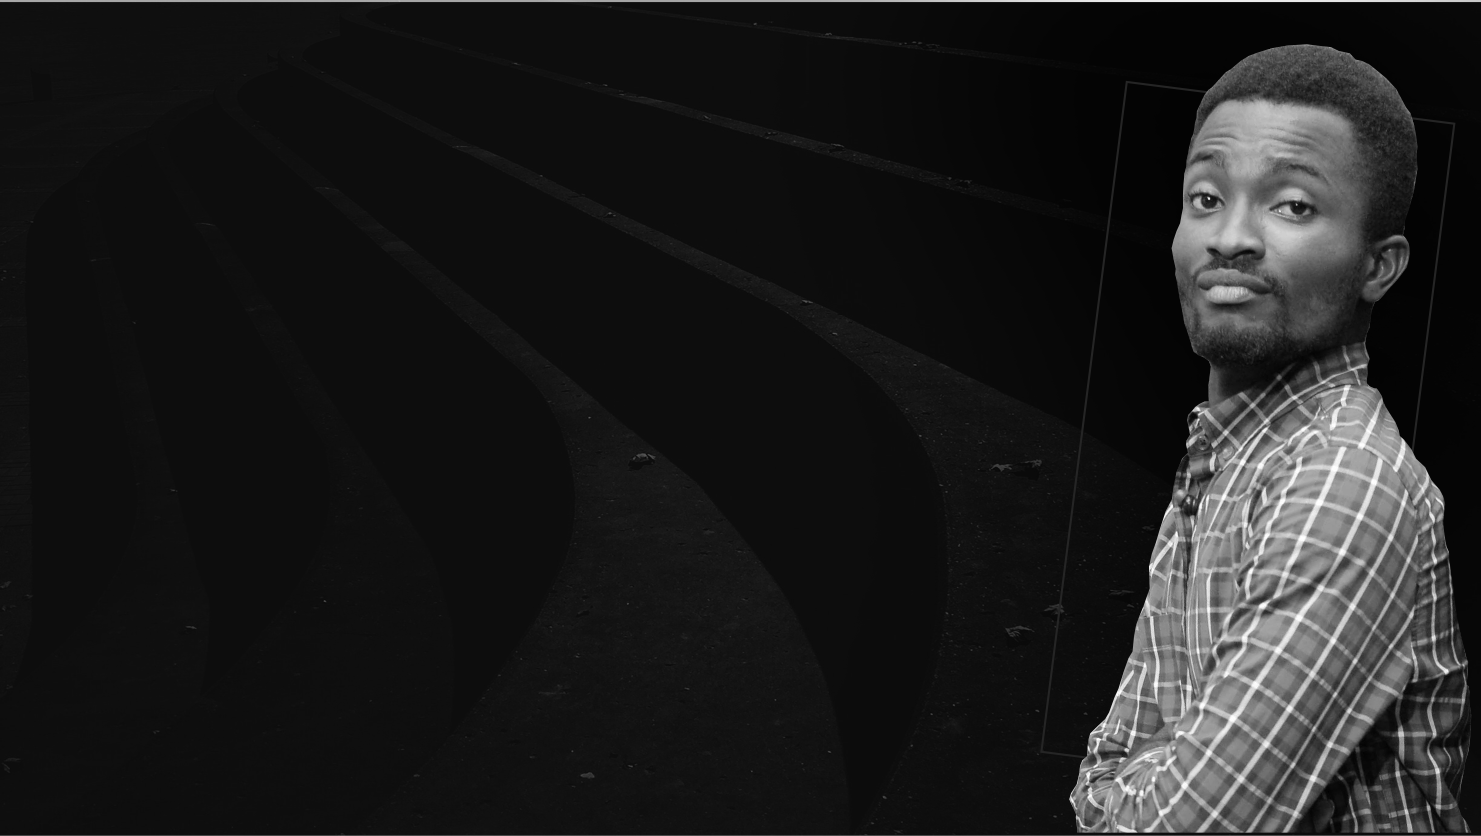
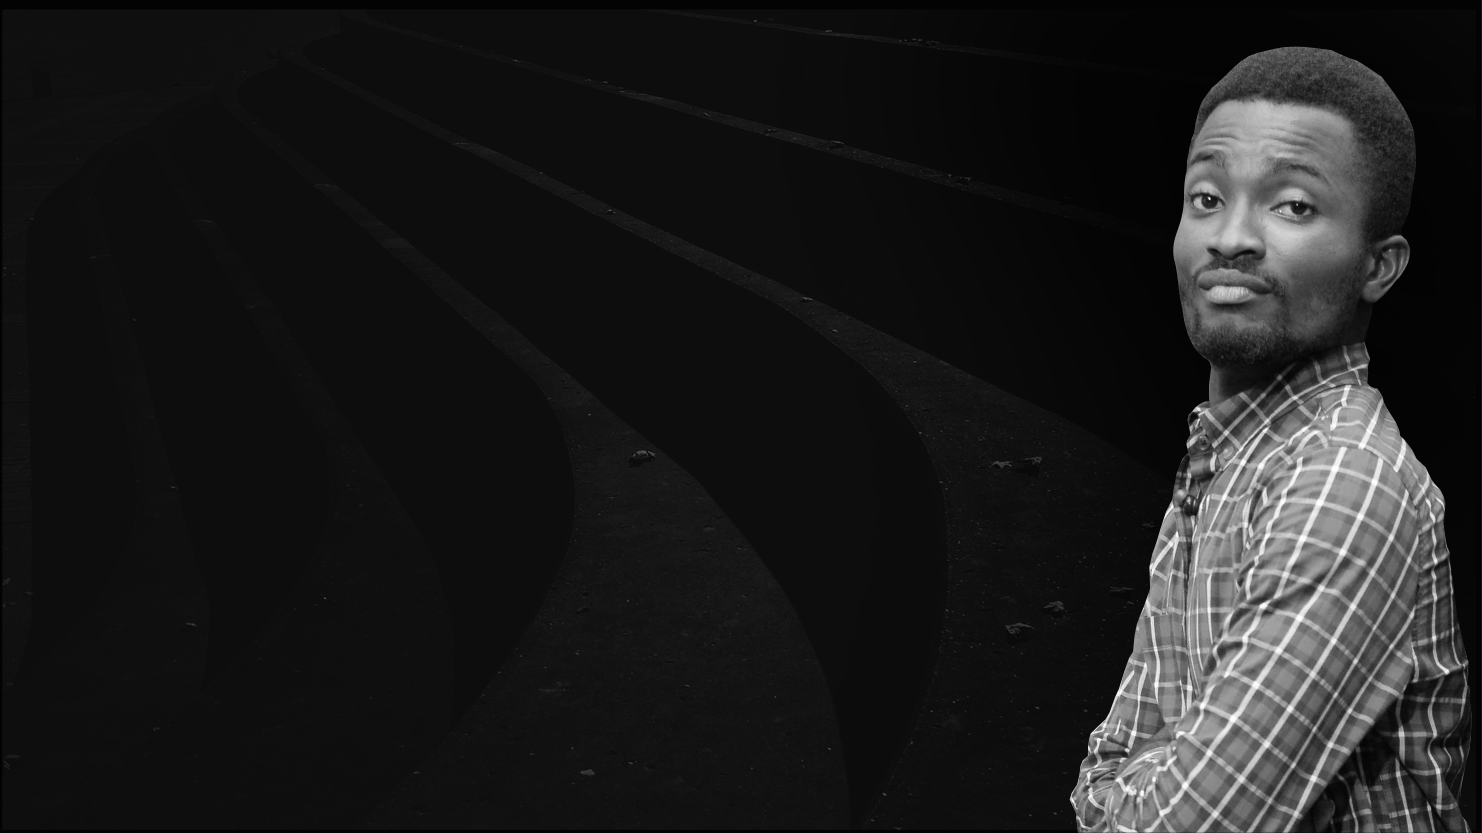
Finished with home page
--Added my image.
--Image hides when on sm screen.
--Changed accent colors to purple (my brand colors and white, black and purple)

diff --git a/assets/css/style.css b/assets/css/style.css
@@ -28,6 +28,12 @@ body::before {
   z-index: -1;
 }
 
+@media (max-width: 576px) {
+  body::before {
+    background: #040404;
+  }
+}
+  
 @media (min-width: 1024px) {
   body::before {
     background-attachment: fixed;
@@ -35,7 +41,7 @@ body::before {
 }
 
 a {
-  color: #18d26e;
+  color: #8062e6;
 }
 
 a:hover {
@@ -69,7 +75,7 @@ h6 {
   width: 80px;
   padding: 0;
   margin-bottom: 10px;
-  margin-top: 60px;
+/*  margin-top: 60px;*/
 }
 
 #header * {
@@ -77,7 +83,7 @@ h6 {
 }
 
 #header h1 {
-  font-size: 48px;
+  font-size: 40px;
   margin: 0;
   padding: 0;
   line-height: 1;
@@ -95,8 +101,14 @@ h6 {
 #header h2 {
   font-size: 24px;
   line-height: 1.5;
-  margin-top: 20px;
+  margin-top: 10px;
   color: rgba(255, 255, 255, 0.8);
+}
+
+@media (min-width: 992px) {
+  #header h2 {
+    width: 75%;
+  }
 }
 
 #header h2 span {
@@ -125,7 +137,7 @@ h6 {
 }
 
 #header .social-links a:hover {
-  background: #18d26e;
+  background: #8062e6;
 }
 
 @media (max-width: 992px) {
@@ -148,11 +160,10 @@ h6 {
     margin-top: 15px;
   }
 
-  #header .container .col-md-9 {
+  #header .container {
     display: flex;
     flex-direction: column;
     align-items: center;
-/*    text-align: center;*/
   }
 }
 
@@ -191,7 +202,7 @@ h6 {
   height: 2px;
   bottom: -4px;
   left: 0;
-  background-color: #04d2d3;
+  background-color: #8062e6;
   visibility: hidden;
   width: 0px;
   transition: all 0.3s ease-in-out 0s;
@@ -408,7 +419,7 @@ section .container {
 .about-me .content h3 {
   font-weight: 700;
   font-size: 26px;
-  color: #18d26e;
+  color: #8062e6;
 }
 
 .about-me .content ul {
@@ -423,7 +434,7 @@ section .container {
 .about-me .content ul i {
   font-size: 20px;
   padding-right: 2px;
-  color: #18d26e;
+  color: #8062e6;
 }
 
 .about-me .content p:last-child {
@@ -453,7 +464,7 @@ section .container {
   font-size: 24px;
   background: rgba(255, 255, 255, 0.1);
   padding: 12px;
-  color: #18d26e;
+  color: #8062e6;
   border-radius: 50px;
 }
 
@@ -503,7 +514,7 @@ section .container {
   width: 1px;
   height: 10px;
   transition: .9s;
-  background-color: #18d26e;
+  background-color: #8062e6;
 }
 
 /*--------------------------------------------------------------
@@ -612,7 +623,7 @@ section .container {
 }
 
 .testimonials .owl-dot.active {
-  background-color: #18d26e !important;
+  background-color: #8062e6 !important;
 }
 
 @media (max-width: 767px) {
@@ -645,7 +656,7 @@ section .container {
   font-weight: 600;
   text-transform: uppercase;
   font-family: "Poppins", sans-serif;
-  color: #18d26e;
+  color: #8062e6;
   margin-bottom: 10px;
 }
 
@@ -678,8 +689,8 @@ section .container {
   border-radius: 50px;
   left: -9px;
   top: 0;
-  background: #18d26e;
-  border: 2px solid #18d26e;
+  background: #8062e6;
+  border: 2px solid #8062e6;
 }
 
 /*--------------------------------------------------------------
@@ -696,7 +707,7 @@ section .container {
   margin: 0 auto;
   width: 64px;
   height: 64px;
-  background: #18d26e;
+  background: #8062e6;
   border-radius: 5px;
   transition: all .3s ease-out 0s;
   display: flex;
@@ -741,8 +752,8 @@ section .container {
 }
 
 .services .icon-box:hover {
-  background: #18d26e;
-  border-color: #18d26e;
+  background: #8062e6;
+  border-color: #8062e6;
 }
 
 .services .icon-box:hover .icon {
@@ -750,7 +761,7 @@ section .container {
 }
 
 .services .icon-box:hover .icon i {
-  color: #18d26e;
+  color: #8062e6;
 }
 
 .services .icon-box:hover .icon::before {
@@ -795,7 +806,7 @@ section .container {
 
 .portfolio #portfolio-flters li:hover,
 .portfolio #portfolio-flters li.filter-active {
-  background: #18d26e;
+  background: #8062e6;
 }
 
 .portfolio #portfolio-flters li:last-child {
@@ -932,7 +943,7 @@ section .container {
 
 .contact .info-box i.bx {
   font-size: 24px;
-  color: #18d26e;
+  color: #8062e6;
   border-radius: 50%;
   padding: 14px;
   float: left;
@@ -969,7 +980,7 @@ section .container {
 }
 
 .contact .info-box .social-links a:hover {
-  color: #18d26e;
+  color: #8062e6;
 }
 
 .contact .php-email-form {
@@ -997,7 +1008,7 @@ section .container {
 .contact .php-email-form .sent-message {
   display: none;
   background: rgba(255, 255, 255, 0.08);
-  background: #18d26e;
+  background: #8062e6;
   text-align: center;
   padding: 15px;
   font-weight: 600;
@@ -1017,7 +1028,7 @@ section .container {
   width: 24px;
   height: 24px;
   margin: 0 10px -6px 0;
-  border: 3px solid #18d26e;
+  border: 3px solid #8062e6;
   border-top-color: #eee;
   -webkit-animation: animate-loading 1s linear infinite;
   animation: animate-loading 1s linear infinite;
@@ -1078,7 +1089,7 @@ section .container {
 }
 
 .contact .php-email-form button[type="submit"] {
-  background: #18d26e;
+  background: #8062e6;
   border: 0;
   padding: 10px 30px;
   color: #fff;
@@ -1151,7 +1162,7 @@ section .container {
 }
 
 .portfolio-details .portfolio-details-carousel .owl-dot.active {
-  background-color: #18d26e !important;
+  background-color: #8062e6 !important;
 }
 
 .portfolio-details .portfolio-info {
@@ -1243,7 +1254,7 @@ section .container {
 }
 
 .credits a {
-  color: #18d26e;
+  color: #8062e6;
   transition: 0.3s;
 }
 

diff --git a/index.html b/index.html
@@ -33,7 +33,6 @@
   <!-- ======= Header ======= -->
   <header id="header" class="header-tops">
     <div class="container">
-<!--      <div class="col-md-9">-->
         <!-- Uncomment below if you prefer to use an image logo -->
 <!--
         <a href="index.html" class="mr-auto mt-5">
@@ -41,7 +40,7 @@
         </a>
 -->
         <h1><a href="index.html">IbukunOluwa Shotubo</a></h1>
-        <h2>I'm a passionate Problem-solver, a self-taught <span>Frontend Web Developer and Product Designer</span> from Nigeria. Currently in Nairobi.</h2>
+        <h2>I'm a passionate Problem-solver and self-taught <br><span>Frontend Web Developer and Product Designer</span> <br>from Nigeria, living in Nairobi.</h2>
         <h2>I have an insatiable curiosity and I'm on a mission to make the world better than I met it by solving problems - creating solutions, and inspiring others to do the same.</h2>
 
         <nav class="nav-menu d-none d-lg-block">
@@ -55,14 +54,13 @@
           </ul>
         </nav><!-- .nav-menu -->
 
-        <div class="social-links mb-5">
+        <div class="social-links">
           <a href="https://twitter.com/mcblessing1" class="twitter"><i class="icofont-twitter"></i></a>
           <a href="https://facebook.com/mcblessing1" class="facebook"><i class="icofont-facebook"></i></a>
           <!--        <a href="#" class="instagram"><i class="icofont-instagram"></i></a>-->
           <!--        <a href="#" class="google-plus"><i class="icofont-skype"></i></a>-->
           <a href="https://linkedin.com/in/mcblessing1" class="linkedin"><i class="icofont-linkedin"></i></a>
         </div>
-<!--      </div>-->
     </div>
   </header><!-- End Header -->
 
@@ -79,7 +77,8 @@
 
       <div class="row">
         <div class="col-lg-4" data-aos="fade-right">
-          <img src="assets/img/me.jpg" class="img-fluid" alt="">
+<!--          <img src="assets/img/me.jpg" class="img-fluid" alt="">-->
+          <img src="assets/img/head.png" class="img-fluid mr-auto" alt="">
         </div>
         <div class="col-lg-8 pt-4 pt-lg-0 content" data-aos="fade-left">
           <h3>UI/UX &amp; Graphic Designer</h3>
